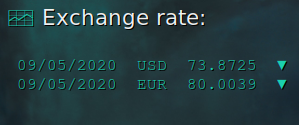
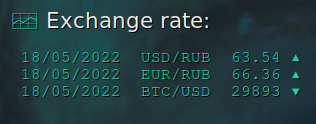
added display of cryptocurrency rates

diff --git a/exchange.py b/exchange.py
@@ -1,9 +1,22 @@
 #!/usr/bin/env python3
-import requests; import datetime
+import requests
+import datetime
 from datetime import timedelta
 
-# для вывода данных из скрипта в конфиг conky, необходимо прописать путь до temp,
-# к примеру ${execi 10 cat $HOME/.conky/sayman/temp}
+# request for cryptocurrency data, via the kraken exchange api
+
+resp = requests.get('https://api.kraken.com/0/public/Ticker?pair=XBTUSD').json()
+price = resp['result']['XXBTZUSD']['a'][0][0:5]
+oppening_price = resp['result']['XXBTZUSD']['o'][0:5]
+temp = open('temp', 'w')
+
+if price > oppening_price:
+    print(datetime.datetime.now().strftime(" %d/%m/%Y"), ' BTC/USD ', price, "▲",  file=temp)
+else:
+    print(datetime.datetime.now().strftime(" %d/%m/%Y"), ' BTC/USD ', price, "▼",  file=temp)
+
+# to output data from the script to the conky config, you need to specify the path to temp,
+# for example ${execi 10 cat $HOME/.conky/sayman/temp}
 
 datet = datetime.datetime.now()-timedelta(days=1)
 date = datetime.datetime.now()
@@ -28,7 +41,8 @@ def str_num_func(line):
     return num_out_of_line
 
 
-# Индексы валют, подставьте нужный индекс, по умолчанию выведено EUR, USD
+# Currency indices, substitute the desired index, EUR, USD is output by default
+#
 # GBP[19:21] AZN[14:16] AUD[9:11] INR[69:71] KZT[74:76]
 # USD[59:61] AMD[24:26] BYN[29:31] BGN[34:36] BRL[39:41]
 # HUF[44:46] HKD[49:51] DKK[54:56] CAD[79:81] KGS[84:86]
@@ -38,24 +52,32 @@ def str_num_func(line):
 # CHF[159:161] ZAR[164:166] KRW[169:171] JPY[174:176]
 
 
-numu1, numu2 = str_num_func(st)[59:61]; flusdt = float(numu1+'.'+numu2)
-nume1, nume2 = str_num_func(st)[64:66]; fleurt = float(nume1+'.'+nume2)
+numu1, numu2 = str_num_func(st)[59:61]
+numu3 = numu2[0:2]
+flusdt = float(numu1+'.'+numu3)
 
+nume1, nume2 = str_num_func(st)[64:66]
+nume3 = nume2[0:2]
+fleurt = float(nume1+'.'+nume3)
 
-temp = open('temp', 'w')
+numu1, numu2 = str_num_func(sn)[59:61]
+numu3 = numu2[0:2]
+flusd = float(numu1+'.'+numu3)
 
-numu1, numu2 = str_num_func(sn)[59:61]; flusd = float(numu1+'.'+numu2)
 if flusdt <= flusd:
-    print(date.strftime(" %d/%m/%Y"), ' USD ',flusd,' ▲', file=temp)
+    print(date.strftime(" %d/%m/%Y"), ' USD/RUB ',flusd,'▲', file=temp)
 else:
-    print(date.strftime(" %d/%m/%Y"), ' USD ',flusd,' ▼', file=temp)
+    print(date.strftime(" %d/%m/%Y"), ' USD/RUB ',flusd,'▼', file=temp)
 
 
-nume1, nume2 = str_num_func(sn)[64:66]; fleur = float(nume1+'.'+nume2)
+nume1, nume2 = str_num_func(sn)[64:66]
+nume3 = nume2[0:2]
+fleur = float(nume1+'.'+nume3)
+
 if fleurt <= fleur:
-    print(date.strftime(" %d/%m/%Y"), ' EUR ',fleur,' ▲', file=temp)
+    print(date.strftime(" %d/%m/%Y"), ' EUR/RUB ',fleur,'▲', file=temp)
 else:
-    print(date.strftime(" %d/%m/%Y"), ' EUR ',fleur,' ▼', file=temp)
+    print(date.strftime(" %d/%m/%Y"), ' EUR/RUB ',fleur,'▼', file=temp)
 
 temp.close()
-
+exit()
